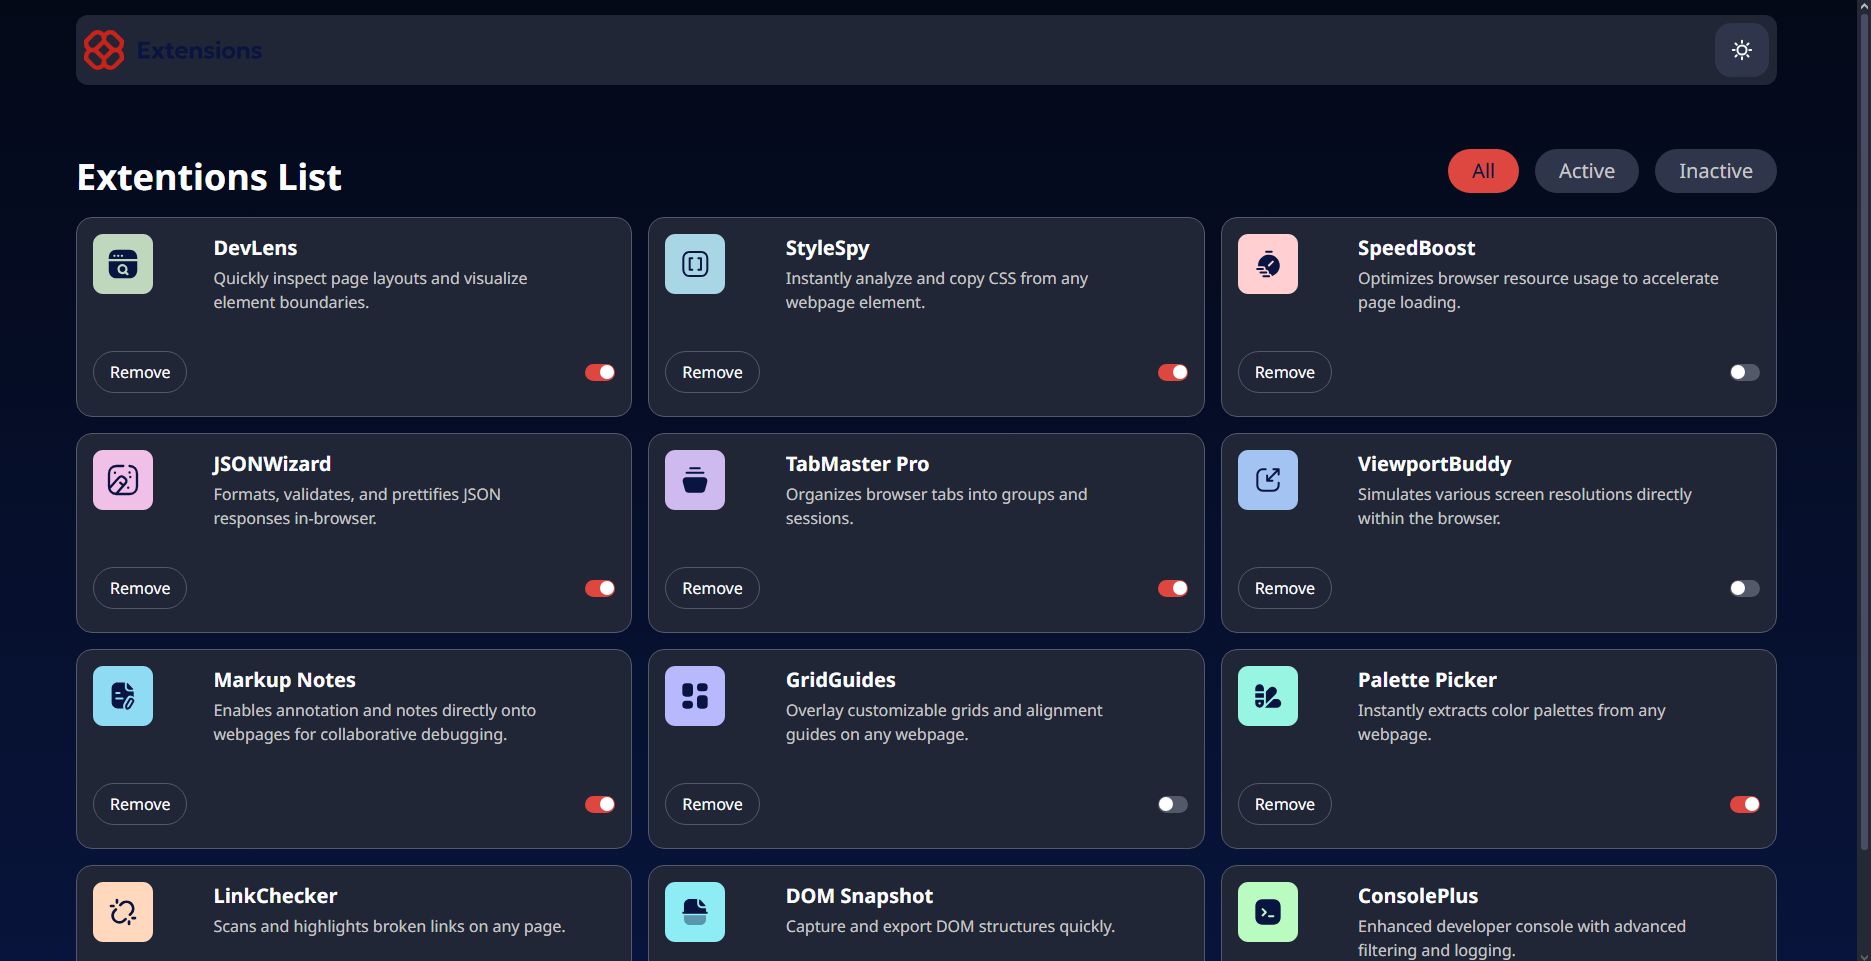
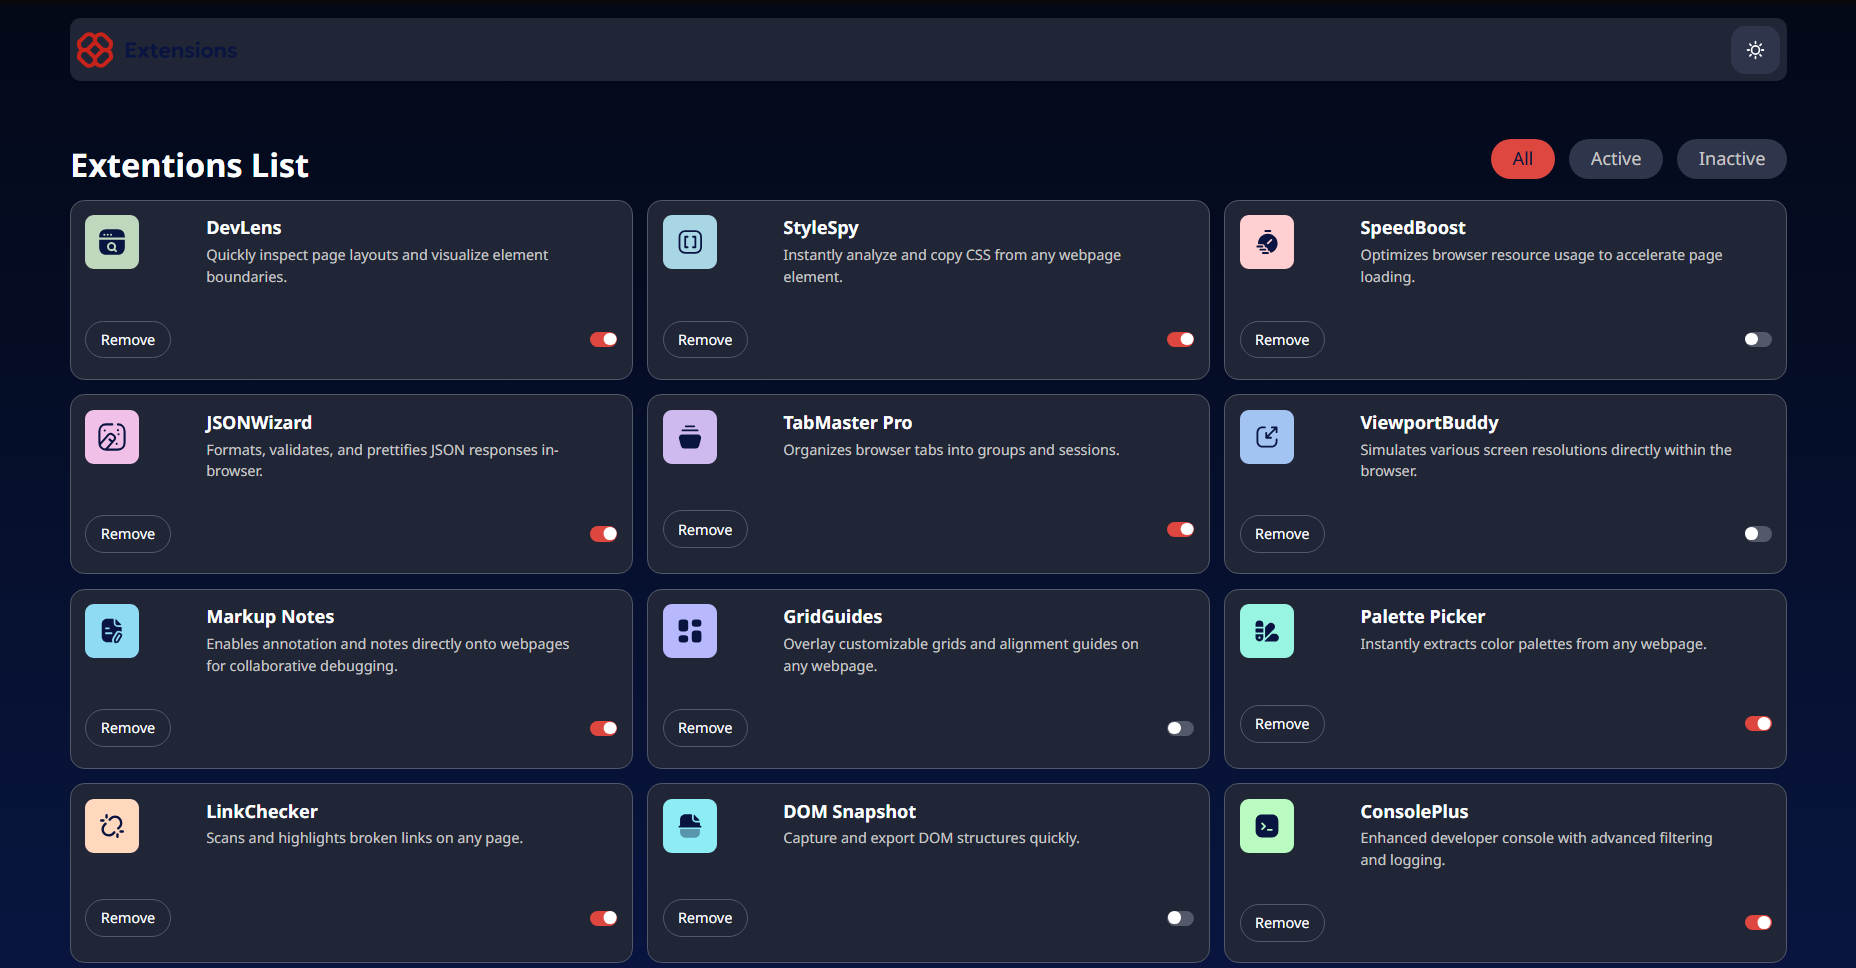
frontendmentor solution submited

Changed region(s): [[0.0312, 0.0, 1.0, 1.0]]

diff --git a/README-template.md b/README-template.md
@@ -10,13 +10,7 @@ This is a solution to the [Browser extensions manager UI challenge on Frontend M
   - [Links](#links)
 - [My process](#my-process)
   - [Built with](#built-with)
-  - [What I learned](#what-i-learned)
-  - [Continued development](#continued-development)
-  - [Useful resources](#useful-resources)
 - [Author](#author)
-- [Acknowledgments](#acknowledgments)
-
-**Note: Delete this note and update the table of contents based on what sections you keep.**
 
 ## Overview
 
@@ -33,20 +27,12 @@ Users should be able to:
 
 ### Screenshot
 
-![](./screenshot.jpg)
-
-Add a screenshot of your solution. The easiest way to do this is to use Firefox to view your project, right-click the page and select "Take a Screenshot". You can choose either a full-height screenshot or a cropped one based on how long the page is. If it's very long, it might be best to crop it.
-
-Alternatively, you can use a tool like [FireShot](https://getfireshot.com/) to take the screenshot. FireShot has a free option, so you don't need to purchase it. 
-
-Then crop/optimize/edit your image however you like, add it to your project, and update the file path in the image above.
-
-**Note: Delete this note and the paragraphs above when you add your screenshot. If you prefer not to add a screenshot, feel free to remove this entire section.**
+![](./public/images/browser-extensions-manager-ui-main.png)
 
 ### Links
 
-- Solution URL: [Add solution URL here](https://your-solution-url.com)
-- Live Site URL: [Add live site URL here](https://your-live-site-url.com)
+- Solution URL: [Add solution URL here](https://www.frontendmentor.io/solutions/browser-extensions-manager-ui-main-aR51oHWrXx)
+- Live Site URL: [Add live site URL here](https://luisortega27.github.io/browser-extensions-manager-ui-main/)
 
 ## My process
 
@@ -57,59 +43,13 @@ Then crop/optimize/edit your image however you like, add it to your project, and
 - Flexbox
 - CSS Grid
 - Mobile-first workflow
+- Javascript
+- Fetch
 - [React](https://reactjs.org/) - JS library
-- [Next.js](https://nextjs.org/) - React framework
-- [Styled Components](https://styled-components.com/) - For styles
-
-**Note: These are just examples. Delete this note and replace the list above with your own choices**
-
-### What I learned
-
-Use this section to recap over some of your major learnings while working through this project. Writing these out and providing code samples of areas you want to highlight is a great way to reinforce your own knowledge.
-
-To see how you can add code snippets, see below:
-
-```html
-<h1>Some HTML code I'm proud of</h1>
-```
-```css
-.proud-of-this-css {
-  color: papayawhip;
-}
-```
-```js
-const proudOfThisFunc = () => {
-  console.log('🎉')
-}
-```
-
-If you want more help with writing markdown, we'd recommend checking out [The Markdown Guide](https://www.markdownguide.org/) to learn more.
-
-**Note: Delete this note and the content within this section and replace with your own learnings.**
-
-### Continued development
-
-Use this section to outline areas that you want to continue focusing on in future projects. These could be concepts you're still not completely comfortable with or techniques you found useful that you want to refine and perfect.
-
-**Note: Delete this note and the content within this section and replace with your own plans for continued development.**
-
-### Useful resources
-
-- [Example resource 1](https://www.example.com) - This helped me for XYZ reason. I really liked this pattern and will use it going forward.
-- [Example resource 2](https://www.example.com) - This is an amazing article which helped me finally understand XYZ. I'd recommend it to anyone still learning this concept.
-
-**Note: Delete this note and replace the list above with resources that helped you during the challenge. These could come in handy for anyone viewing your solution or for yourself when you look back on this project in the future.**
+- [Tailwind](https://tailwindcss.com) - For styles
 
 ## Author
 
-- Website - [Add your name here](https://www.your-site.com)
-- Frontend Mentor - [@yourusername](https://www.frontendmentor.io/profile/yourusername)
-- Twitter - [@yourusername](https://www.twitter.com/yourusername)
-
-**Note: Delete this note and add/remove/edit lines above based on what links you'd like to share.**
-
-## Acknowledgments
-
-This is where you can give a hat tip to anyone who helped you out on this project. Perhaps you worked in a team or got some inspiration from someone else's solution. This is the perfect place to give them some credit.
-
-**Note: Delete this note and edit this section's content as necessary. If you completed this challenge by yourself, feel free to delete this section entirely.**
+- Portfolio - [Luis F. Ortega](https://luisortega27.github.io/portfolio/)
+- Frontend Mentor - [@LuisOrtega27](https://www.frontendmentor.io/profile/LuisOrtega27)
+- Github - [LuisOrtega27](https://github.com/LuisOrtega27)
